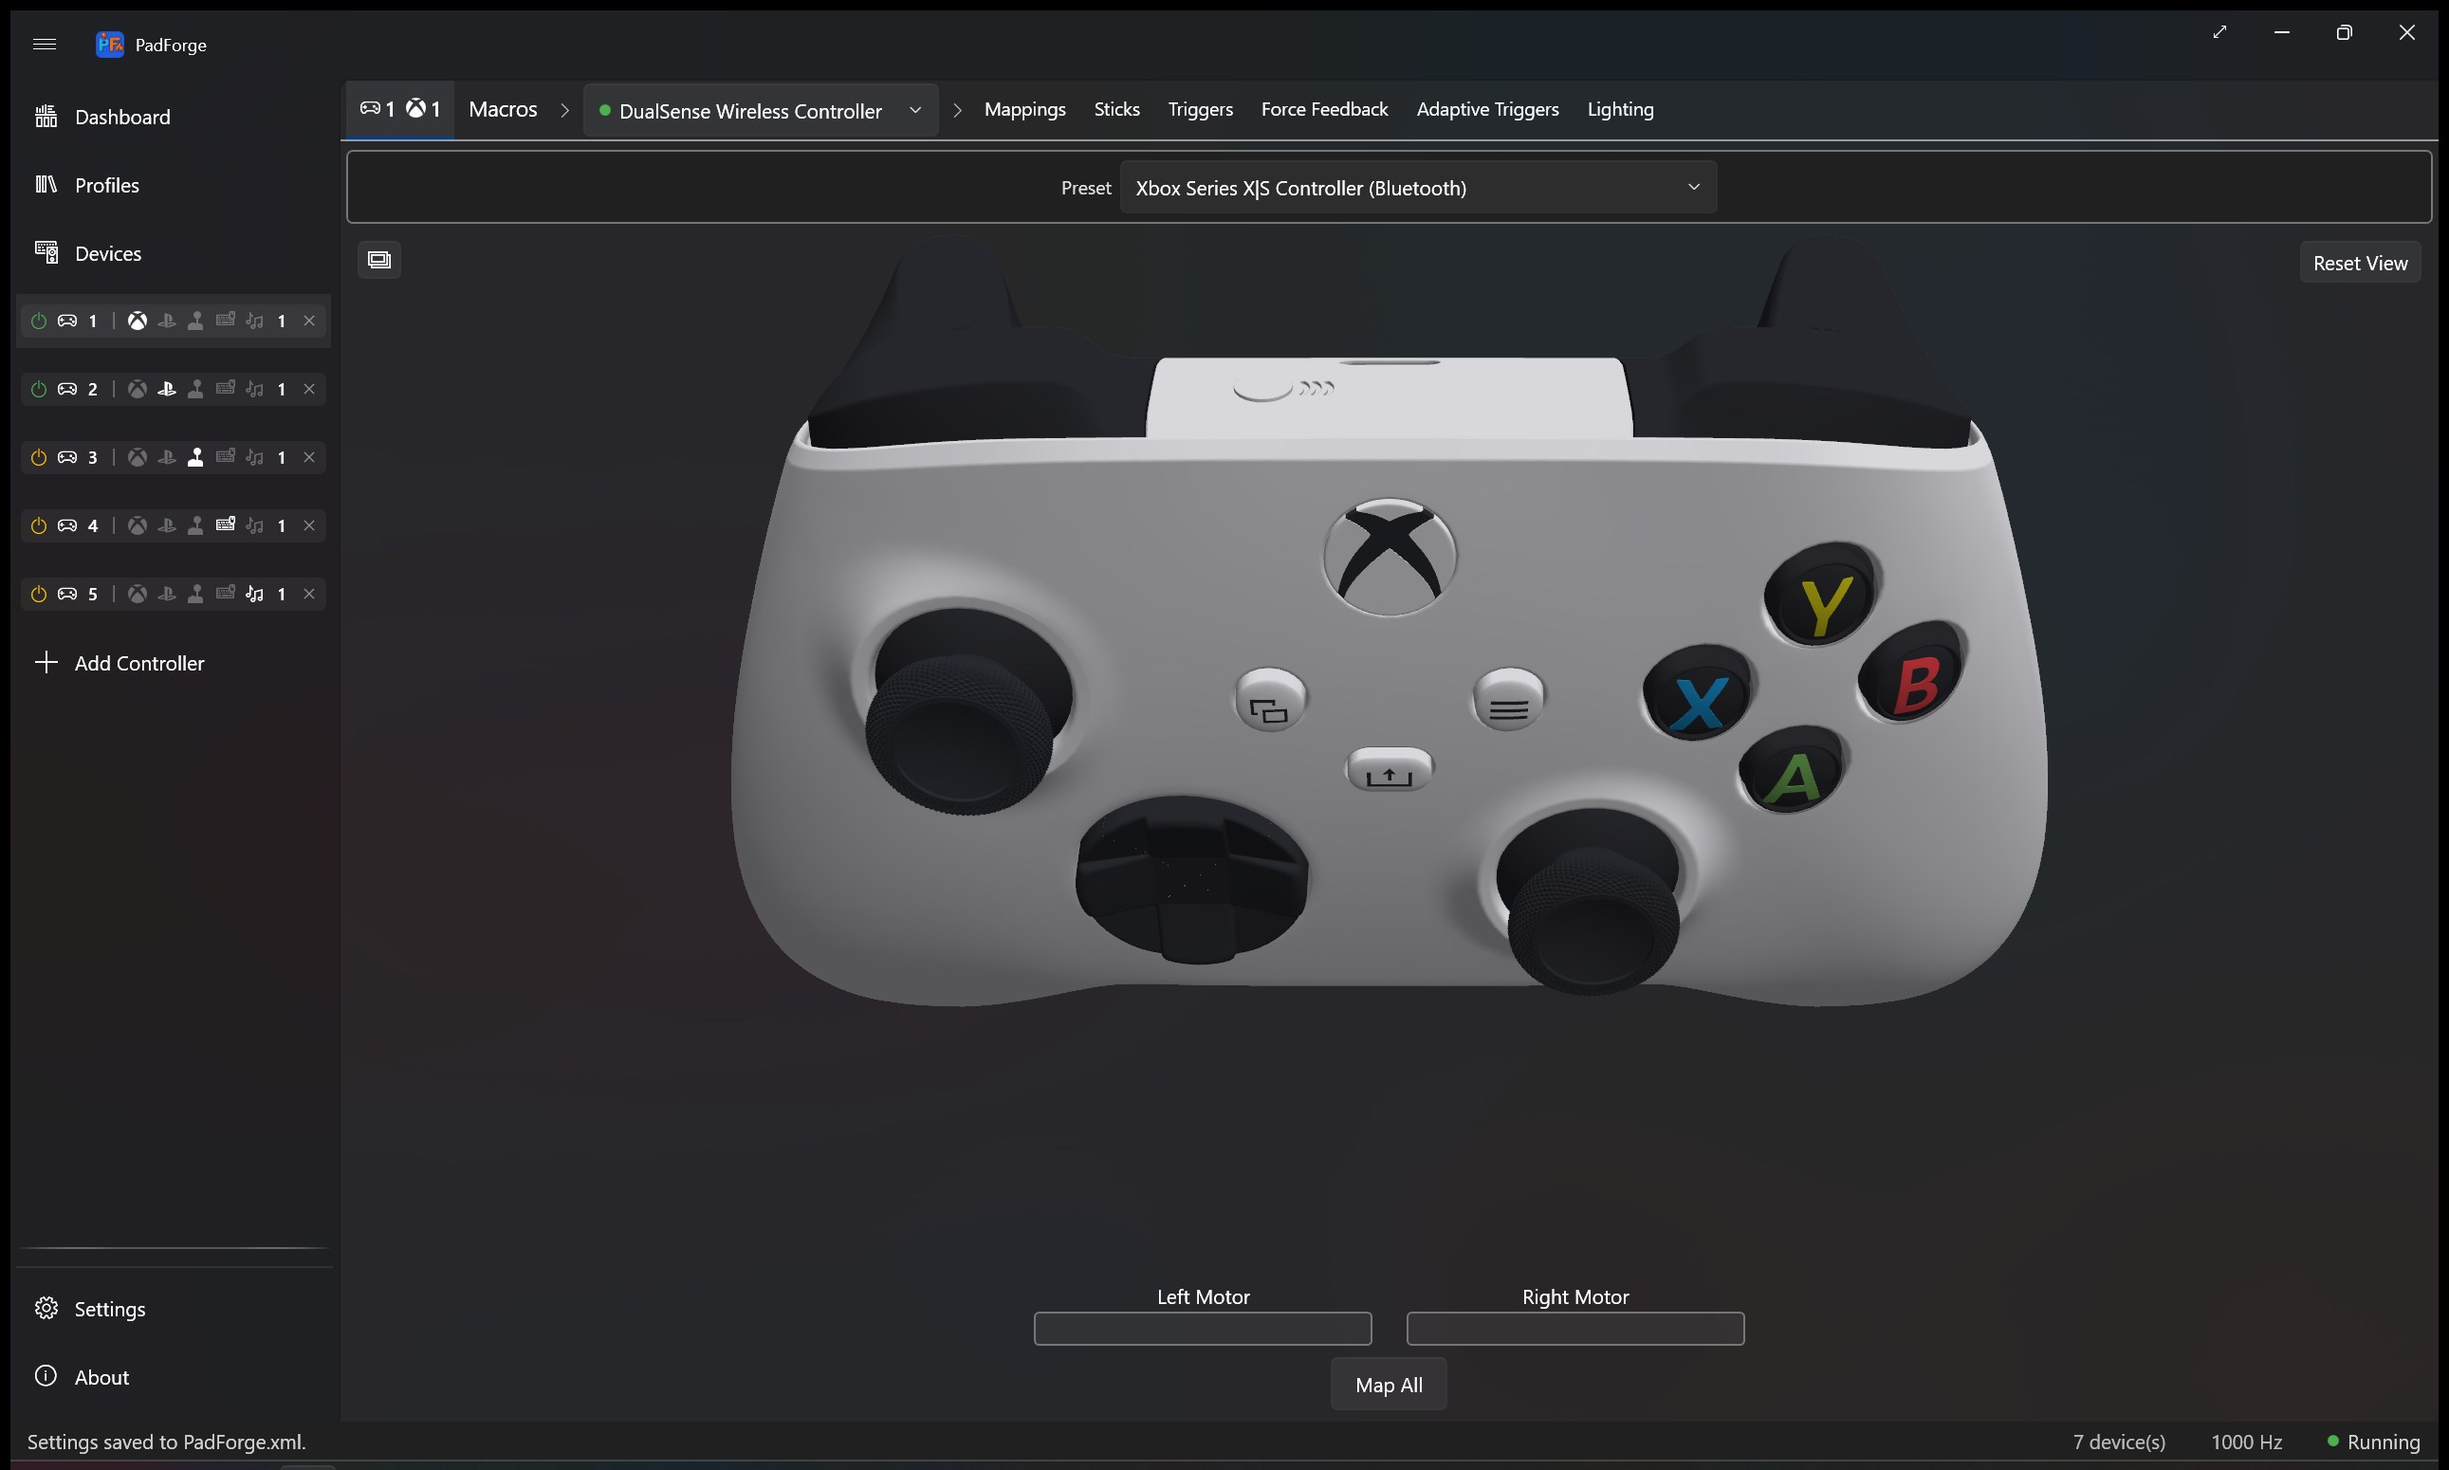
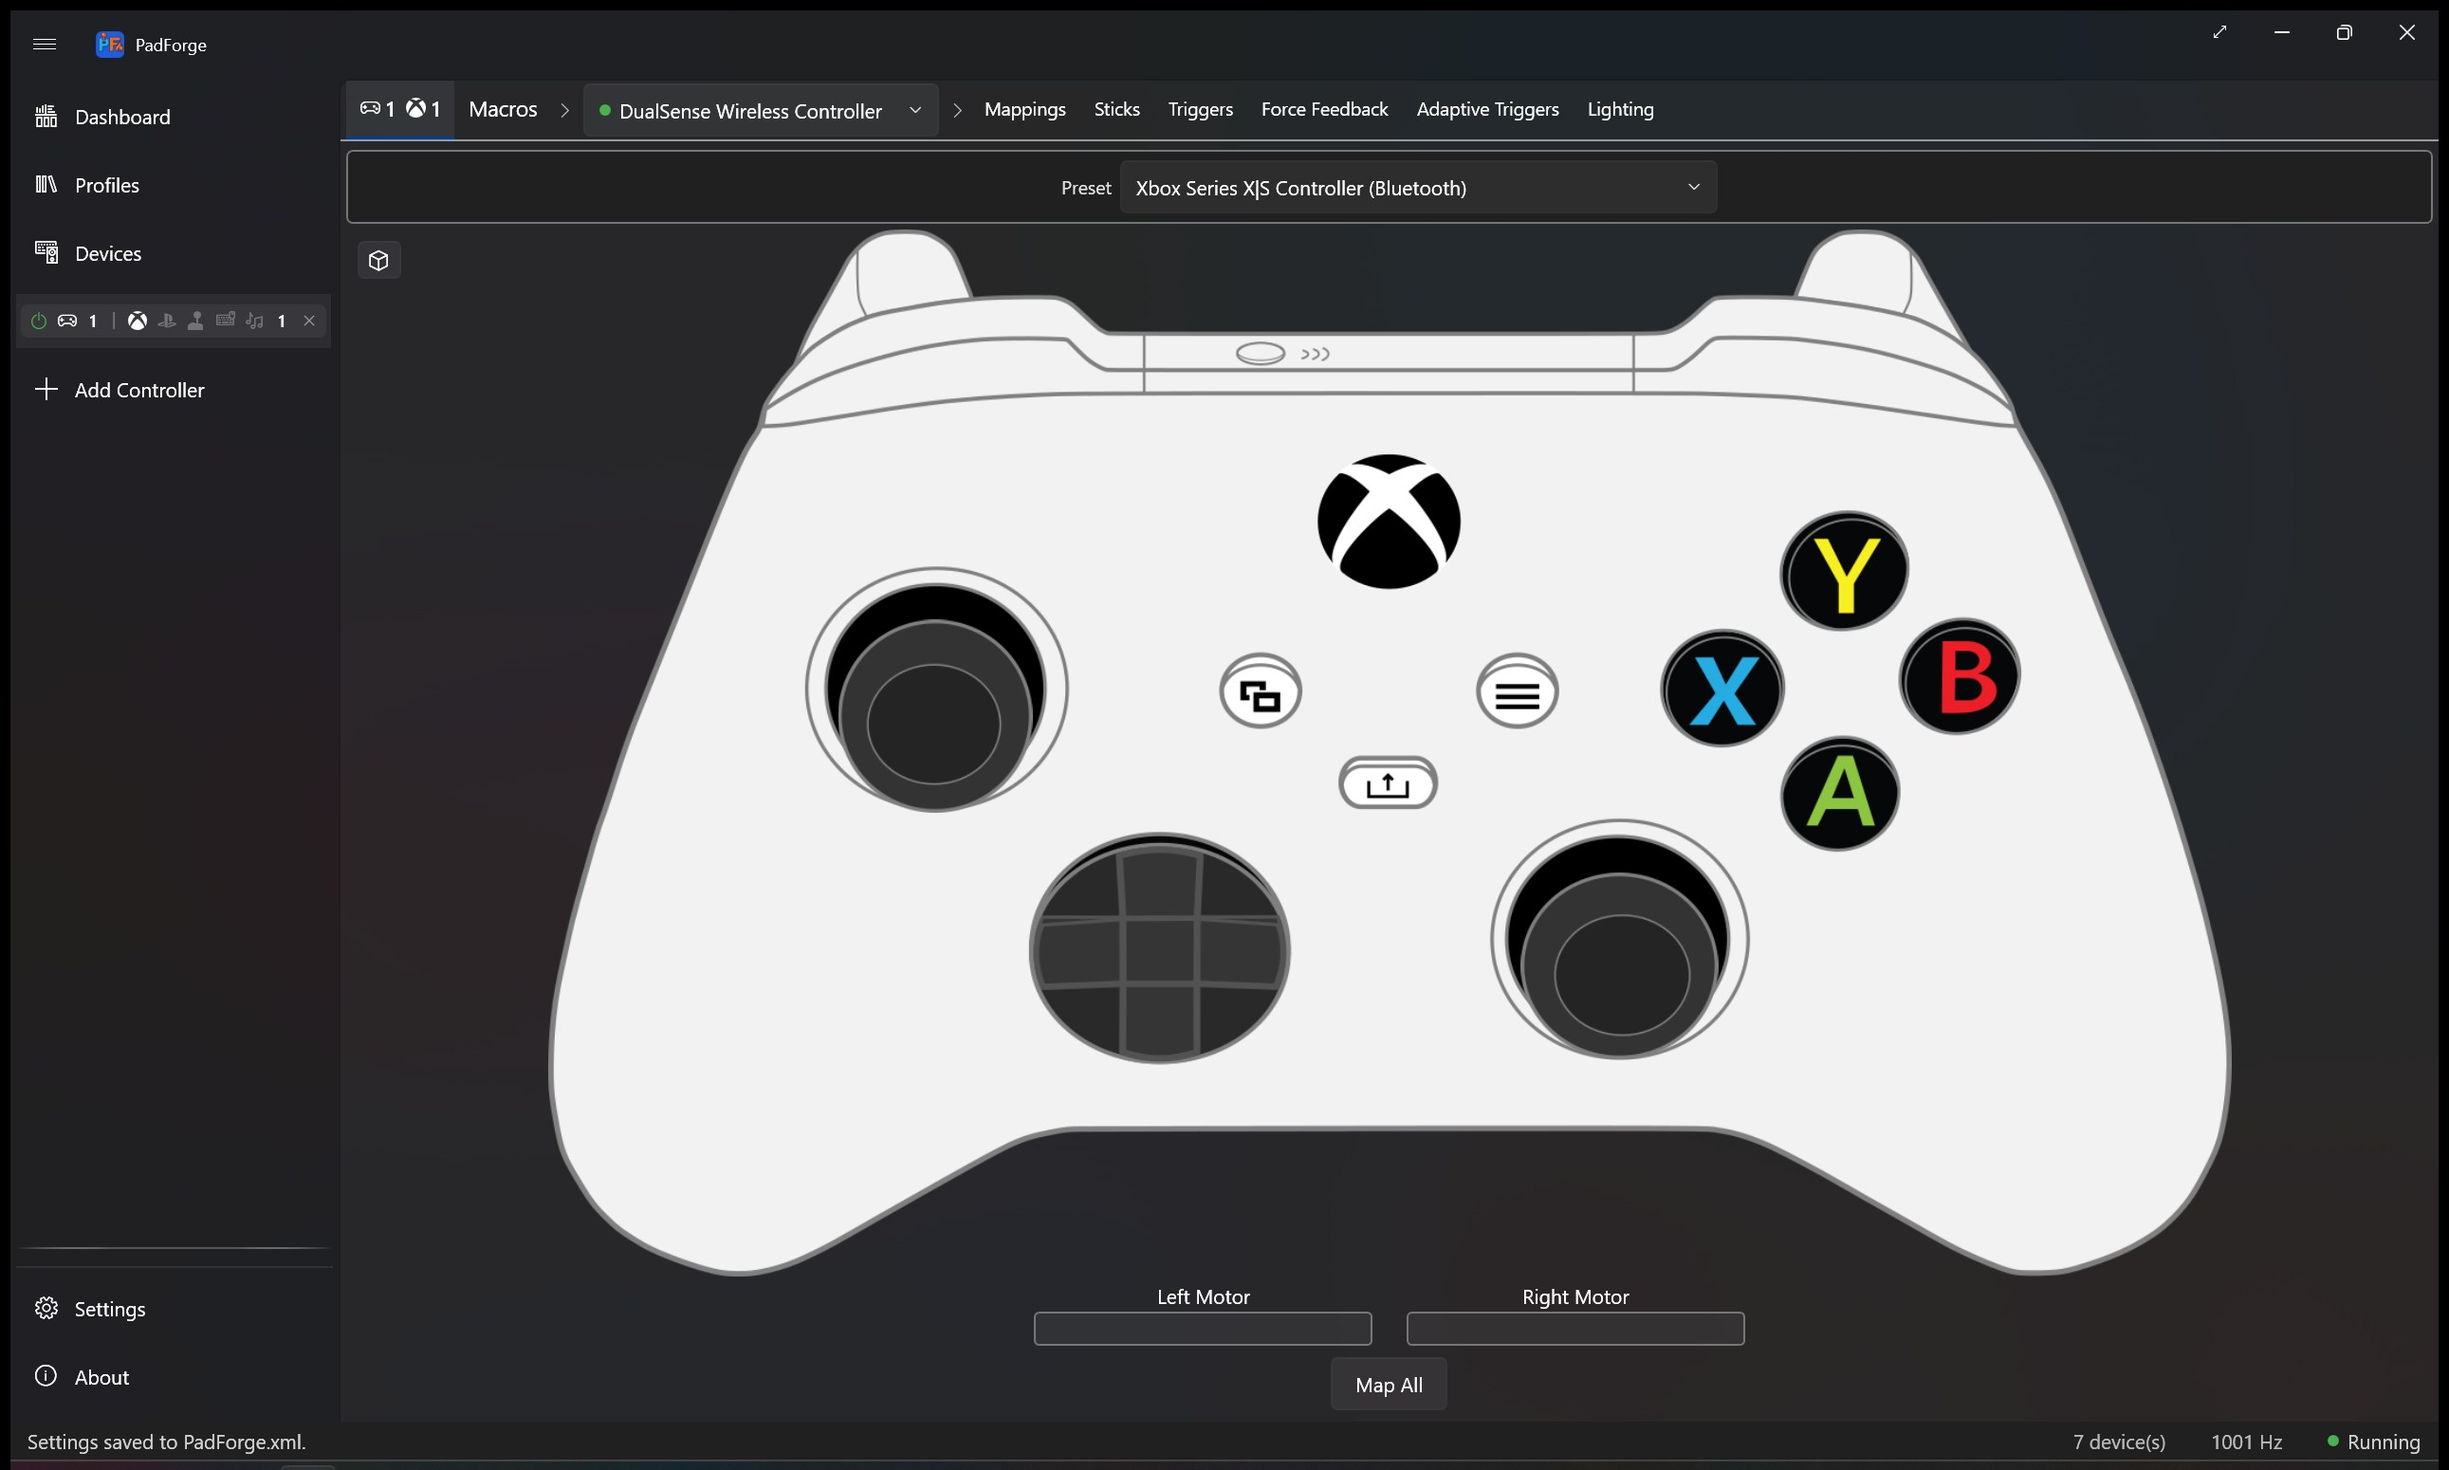
DualSense touchpad insets + web controller trigger z-order + 2D screenshot
- Per-model TouchpadXInsetFrac/ZTopInsetFrac/ZBottomInsetFrac on
  ControllerModelBase; DualSense overrides crop the finger-positioning
  region down to the real ~52x32 touch surface inside the larger Touchpad
  mesh so the sphere stops at the visual edges instead of drifting wide
  and stopping high.
- Web controller now recognizes the "triggerBase" overlay type and pins
  the base PNG behind the controller body (z-index 0) and the active
  press-fill in front (z-index 2). Mirrors the desktop 2D z-order so the
  Xbox 360 and DS4 web layouts show the trigger silhouettes above the
  bumpers and the press fill is fully visible.
- pad-controller-2d screenshot recaptured via Use2DControllerView XML
  flip (HelixViewport3D blocks UIA from seeing the toggle button, and
  coord-based clicks have landed off-target).

diff --git a/PadForge.App/WebAssets/css/controller.css b/PadForge.App/WebAssets/css/controller.css
@@ -48,26 +48,39 @@ body {
     width: 100%;
     height: 100%;
     display: block;
+    z-index: 1;
 }
 
 /* Overlay images: hidden by default, shown when .active */
 #controller-container img.overlay {
     opacity: 0;
     transition: opacity 0.05s;
+    z-index: 2;
 }
 #controller-container img.overlay.active {
     opacity: 1;
 }
 
-/* Trigger overlays: always visible, clipped to show fill level */
+/* Trigger overlays: always visible, clipped to show fill level. Sits in
+   FRONT of the base PNG so the press-fill animation is fully visible. */
 #controller-container img.overlay.trigger {
     opacity: 1;
     clip-path: inset(100% 0 0 0);
+    z-index: 2;
+}
+
+/* Trigger BASE silhouette: rest-state trigger image. Sits BEHIND the base
+   PNG so only the part that pokes up above the controller body is visible
+   (the trigger bulge above the bumpers). Matches desktop 2D z-ordering. */
+#controller-container img.overlay.trigger-base {
+    opacity: 1;
+    z-index: 0;
 }
 
 /* Stick overlays: always visible, translated by JS */
 #controller-container img.overlay.stick-ring {
     opacity: 1;
+    z-index: 2;
 }
 
 /* Touch layer covers entire viewport, above the controller images */

diff --git a/PadForge.App/WebAssets/js/controller_client.js b/PadForge.App/WebAssets/js/controller_client.js
@@ -154,6 +154,8 @@
 
             if (ov.type === "trigger") {
                 img.className = "overlay trigger";
+            } else if (ov.type === "triggerBase") {
+                img.className = "overlay trigger-base";
             } else if (ov.type === "stickRing") {
                 img.className = "overlay stick-ring";
             } else {

diff --git a/PadForge.App/Views/ControllerModelView.xaml.cs b/PadForge.App/Views/ControllerModelView.xaml.cs
@@ -338,13 +338,14 @@ namespace PadForge.Views
             if (bounds.IsEmpty) return;
 
             PositionFingerSphere(_touchpadFinger0Transform,
-                _vm.TouchpadFinger0Down, _vm.TouchpadFinger0X, _vm.TouchpadFinger0Y, bounds);
+                _vm.TouchpadFinger0Down, _vm.TouchpadFinger0X, _vm.TouchpadFinger0Y, bounds, _currentModel);
             PositionFingerSphere(_touchpadFinger1Transform,
-                _vm.TouchpadFinger1Down, _vm.TouchpadFinger1X, _vm.TouchpadFinger1Y, bounds);
+                _vm.TouchpadFinger1Down, _vm.TouchpadFinger1X, _vm.TouchpadFinger1Y, bounds, _currentModel);
         }
 
         private static void PositionFingerSphere(
-            TranslateTransform3D t, bool down, float normX, float normY, Rect3D bounds)
+            TranslateTransform3D t, bool down, float normX, float normY, Rect3D bounds,
+            PadForge.Models3D.ControllerModelBase model)
         {
             if (t == null) return;
             if (!down)
@@ -354,23 +355,20 @@ namespace PadForge.Views
                 return;
             }
 
-            // DS4 model coords: X = left/right (matches normX 0..1 left→right),
+            // Model coords: X = left/right (matches normX 0..1 left→right),
             // Z = top/bottom of body (touch normY 0=top → high Z, 1=bottom →
             // low Z), Y is the surface depth — float the sphere just in
             // front of the touchpad face (Y at bounds.Min.Y + small offset
-            // toward the camera, which is -Y in HC's DS4 model).
+            // toward the camera, which is -Y in HC's body model).
             //
-            // The Screen.obj mesh is larger than the actual touchable surface:
-            // ~3 mm wider on X (small bevel), ~9 mm taller on Z (lightbar at
-            // top, narrow bezel at bottom). Insets below crop the bounding
-            // box down to the touch-sensitive region so finger position maps
-            // visually to where a real DS4 finger would land. Pinned to the
-            // measured Screen.obj bounds (X 55 mm / Z 32.65 mm vs the real
-            // DS4 v2 touch surface ~52 × 23 mm); revisit if the mesh ever
-            // changes.
-            const double xInsetFrac      = 0.03; // ~1.6 mm bezel each X side
-            const double zTopInsetFrac   = 0.12; // ~4 mm — pad surface extends up to where the lightbar curve begins
-            const double zBottomInsetFrac = 0.12; // ~3.9 mm — bottom bezel runs longer than visual mesh suggests; raises the lower edge of the finger map so touches at normY=1 sit above the bottom curve, matching where a real DS4 v2 finger would land
+            // Each model's Touchpad mesh extends past the actual touch surface
+            // by a different amount (DS4 Screen.obj has a small bezel; the
+            // DualSense Touchpad mesh is the entire central front-face area
+            // and is much larger than the real touchpad). The model owns the
+            // inset fractions so this code stays controller-agnostic.
+            double xInsetFrac      = model?.TouchpadXInsetFrac      ?? 0.03;
+            double zTopInsetFrac   = model?.TouchpadZTopInsetFrac   ?? 0.12;
+            double zBottomInsetFrac = model?.TouchpadZBottomInsetFrac ?? 0.12;
 
             double touchX0 = bounds.X + bounds.SizeX * xInsetFrac;
             double touchXSize = bounds.SizeX * (1.0 - 2 * xInsetFrac);

diff --git a/PadForge.App/Models3D/ControllerModelBase.cs b/PadForge.App/Models3D/ControllerModelBase.cs
@@ -74,6 +74,16 @@ namespace PadForge.Models3D
         /// true, and floats finger spheres just above its surface.</summary>
         public Model3DGroup Touchpad;
 
+        /// <summary>Per-model fractional insets that crop the Touchpad mesh
+        /// bounds down to the actual touch-sensitive surface for finger-sphere
+        /// positioning. Defaults match the DS4 Screen.obj. Subclasses override
+        /// when their Touchpad mesh extends beyond the real touchable area
+        /// (e.g. DualSense's Touchpad mesh includes the surrounding front-face
+        /// surface and is wider + taller than the real touchpad).</summary>
+        public virtual double TouchpadXInsetFrac => 0.03;
+        public virtual double TouchpadZTopInsetFrac => 0.12;
+        public virtual double TouchpadZBottomInsetFrac => 0.12;
+
         // ─────────────────────────────────────────────
         //  Rotation parameters
         // ─────────────────────────────────────────────

diff --git a/PadForge.App/Models3D/ControllerModelDualSense.cs b/PadForge.App/Models3D/ControllerModelDualSense.cs
@@ -244,6 +244,16 @@ namespace PadForge.Models3D
         /// surface.</summary>
         public override double ModelScale => 165.7 / 199.9;
 
+        // The DualSense Touchpad mesh (Comp02 from MainBody) extends well
+        // beyond the actual touch-sensitive surface: bounds are roughly
+        // X∈[-42, 38] (80 mm) and Z∈[19, 63] (44 mm), versus the real touch
+        // area of ~52 × 32 mm. Crop the finger-positioning region down so the
+        // sphere maps to where a real DualSense finger lands instead of
+        // sliding past the touchpad's visual edges.
+        public override double TouchpadXInsetFrac => 0.175;       // (80 − 52) / 2 / 80
+        public override double TouchpadZTopInsetFrac => 0.10;     // small bezel above active area
+        public override double TouchpadZBottomInsetFrac => 0.02;  // let finger reach close to mesh bottom; previous 0.12 stopped well above the visual edge
+
         private static void SetMaterial(Model3DGroup group, Material material)
         {
             if (group.Children.Count > 0 && group.Children[0] is GeometryModel3D geo)
